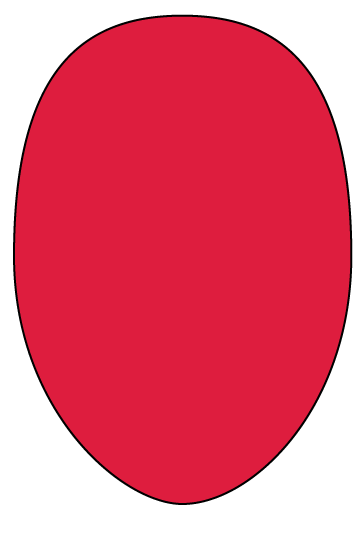
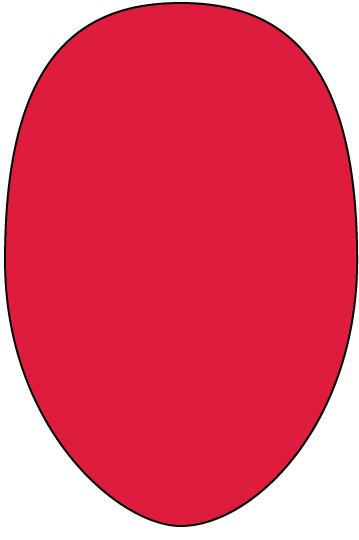
Updated spider head image

Changed region(s): [[0.0, 0.0, 1.0, 0.9778]]

diff --git a/logic/spiderLogic.js b/logic/spiderLogic.js
@@ -86,6 +86,6 @@ document.getElementById('cta').addEventListener('click', function () {
     TweenMax.to('#spider-righteye', 1, { opacity: 1, scaleY:1, delay: 5 } );
     // Head shape
     TweenMax.to('.main-container', 0.25, { background: 'white', delay: 6 } );    
-    TweenMax.to('#spider-head', 0.25, { scaleX: 1, scaleY: 1, delay: 5.5 } );
+    TweenMax.to('#spider-head', 0.25, { scaleX: 1, scaleY: 1, delay: 6 } );
     TweenMax.to('.panel', 0.25, { scaleX: 0, scaleY: 0, delay: 6 } );
 })

diff --git a/styles/spiderStyles.css b/styles/spiderStyles.css
@@ -154,11 +154,11 @@ body {
 }
 
 #spider-head {
-  position: absolute;
-  top: 50vh;
-  right: 30vw;
+  position: fixed;
+  top: 0;
+  left: 29vw;
   height: 100vh;
-  width: 360px;
+  width: 900px;
   -webkit-transform: scaleY(0);
           transform: scaleY(0);
   -webkit-transform: scaleX(0);

diff --git a/styles/spiderStyles.scss b/styles/spiderStyles.scss
@@ -136,11 +136,11 @@ body {
 }
 
 #spider-head{
-    position: absolute;
-    top: 50vh;
-    right: 30vw;
+    position: fixed;
+    top: 0;
+    left: 29vw;
     height: 100vh;
-    width: 360px;
+    width: 900px;
     transform: scaleY(0);
     transform: scaleX(0);
 }
